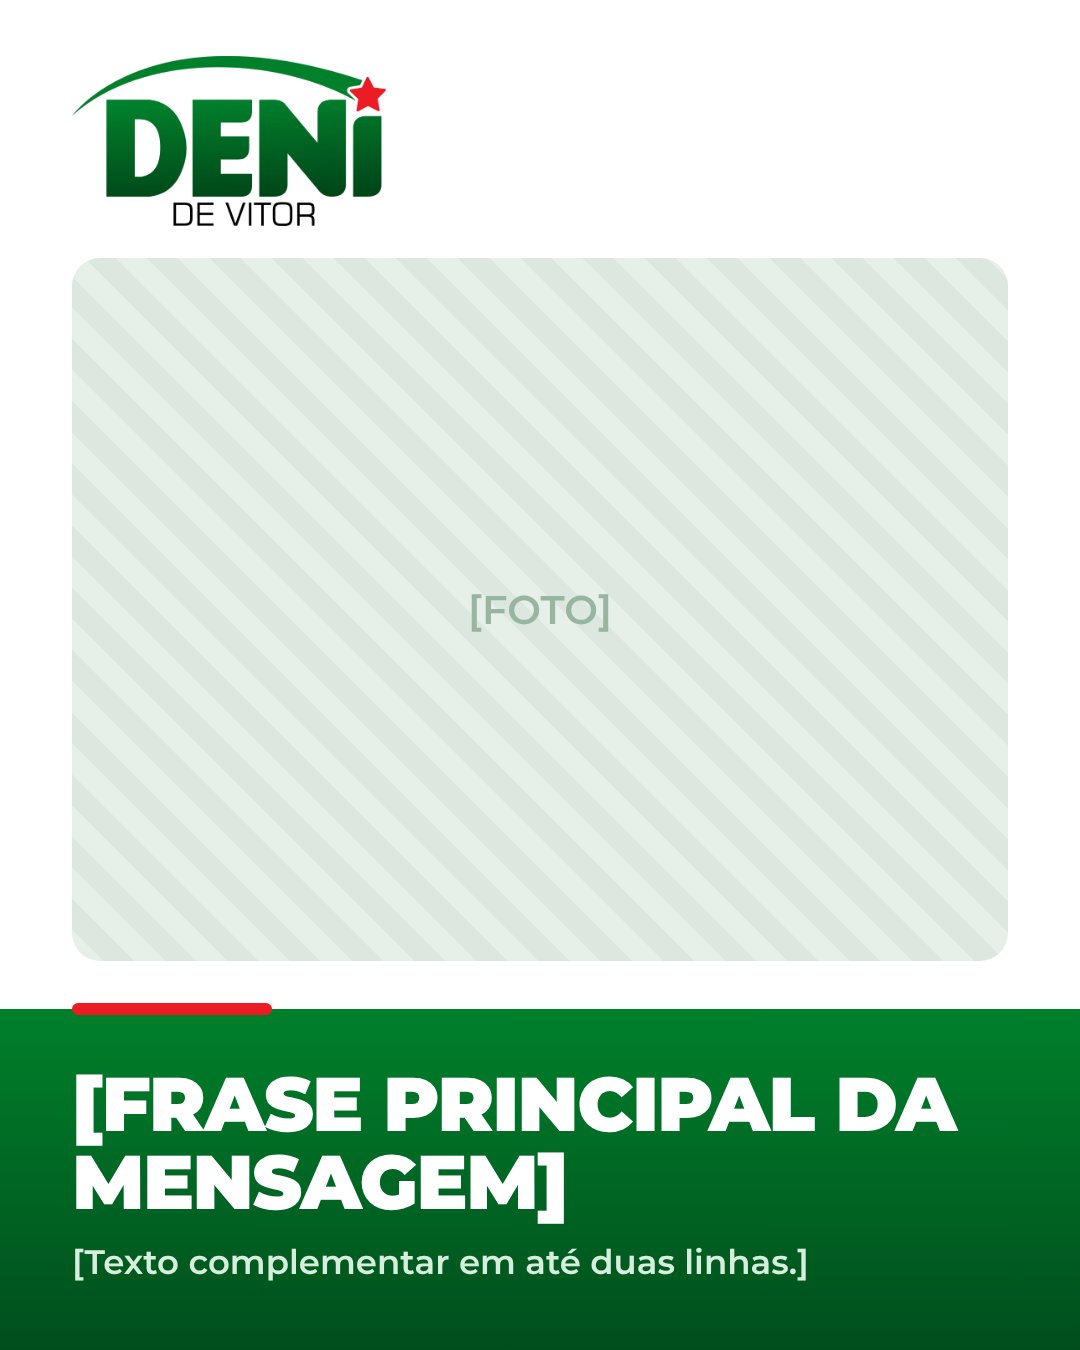
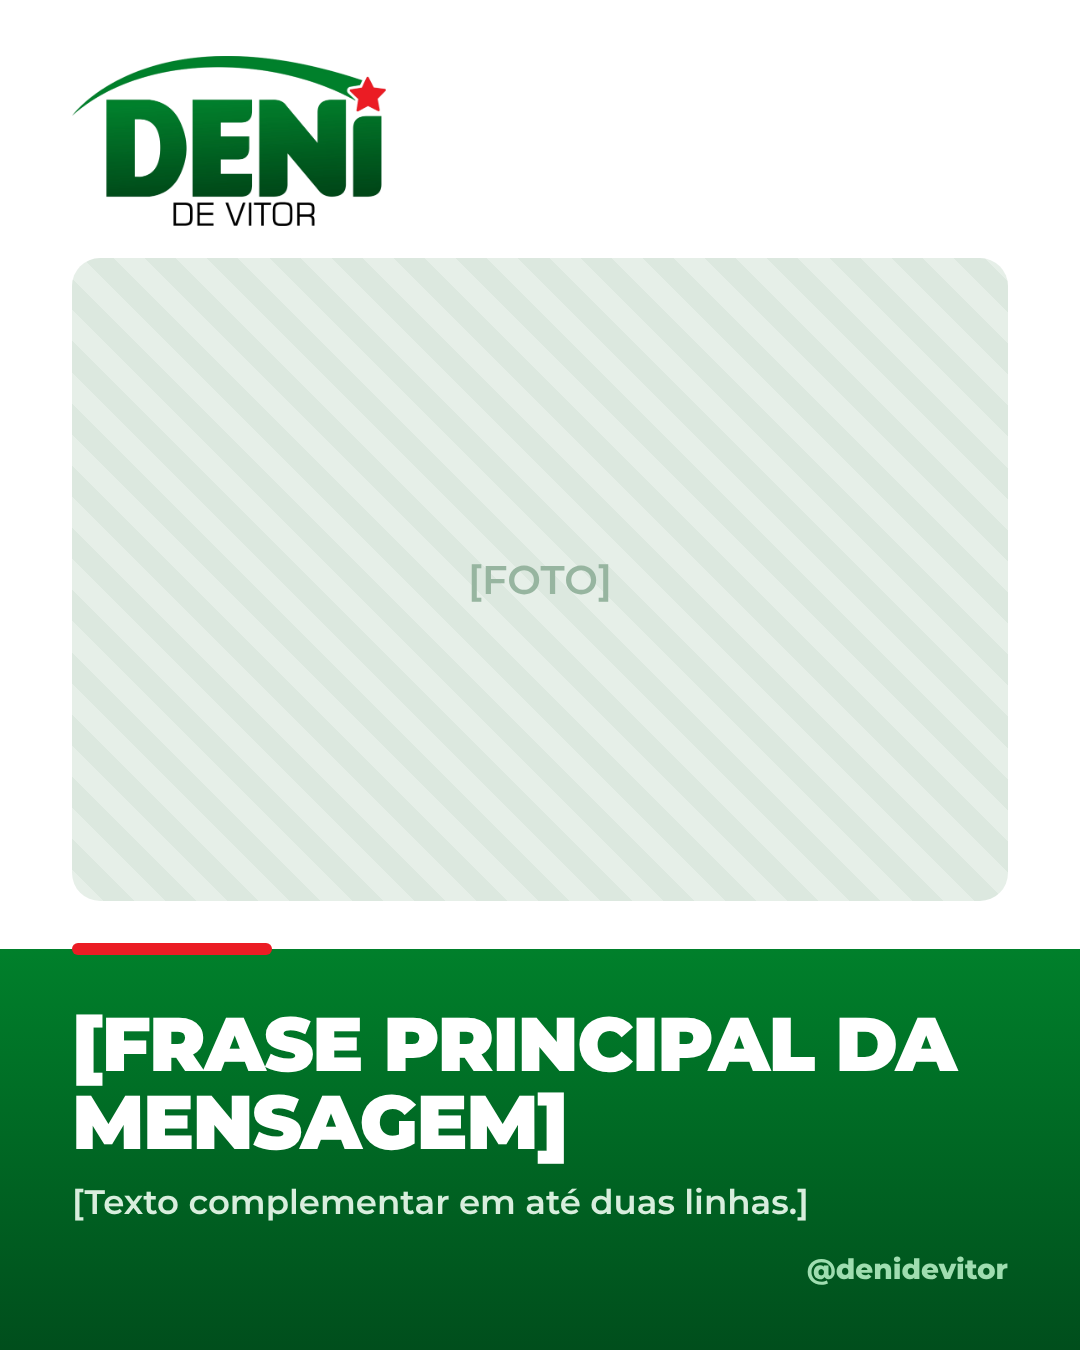
Instagram de Vitor e Deni nos briefs e modelos de card
Claude-Session: https://claude.ai/code/session_01RAcsiDedBFiSL89ewa6Bxz

Changed region(s): [[0.0, 0.6533, 1.0, 0.9644], [0.4278, 0.4044, 0.5806, 0.4667]]

diff --git a/clientes/prefeito-vitor/modelos/card-mensagem.html b/clientes/prefeito-vitor/modelos/card-mensagem.html
@@ -8,13 +8,15 @@ body{width:1080px;height:1350px;background:var(--escuro);font-family:Montserrat,
 .fade{position:absolute;inset:0;background:linear-gradient(to bottom,transparent 38%,var(--escuro) 66%)}
 .selo{position:absolute;top:48px;left:48px;background:#fff;border-radius:24px;padding:10px 22px}
 .selo img{height:150px;display:block}
-.txt{position:absolute;left:72px;right:72px;bottom:96px;display:grid;gap:26px}
+.txt{position:absolute;left:72px;right:72px;bottom:120px;display:grid;gap:26px}
 h1{font:900 96px/1 Montserrat;letter-spacing:-.02em;text-transform:uppercase}
 h1 em{font-style:normal;color:#7CF07F}
 p{font:600 36px/1.35 Montserrat;color:#DDF5E0}
+.arroba{position:absolute;right:72px;bottom:44px;font:800 30px Montserrat;color:#BFEFC4;letter-spacing:.02em}
 .barra{position:absolute;left:0;right:0;bottom:0;height:20px;background:var(--verde)}
 </style>
 <div class="foto">[FOTO]</div><div class="fade"></div>
 <div class="selo"><img src="../identidade/logo-vitor-prefeito-do-povo.png" alt=""></div>
 <div class="txt"><h1>[Frase de impacto <em>em destaque</em>]</h1><p>[Mensagem complementar em até duas linhas.]</p></div>
+<div class="arroba">@prefeitovitor</div>
 <div class="barra"></div>

diff --git a/clientes/deni-de-vitor/modelos/card-mensagem.html b/clientes/deni-de-vitor/modelos/card-mensagem.html
@@ -11,7 +11,8 @@ header img{height:170px}
 .txt::before{content:"";position:absolute;top:-6px;left:72px;width:200px;height:12px;background:var(--vermelho);border-radius:6px}
 h1{font:900 76px/1.02 Montserrat;letter-spacing:-.02em;text-transform:uppercase}
 p{font:600 34px/1.35 Montserrat;color:#D8EEDD}
+.arroba{font:800 28px Montserrat;color:#9FDDB0;justify-self:end;margin-top:6px}
 </style>
 <header><img src="../identidade/logo-deni-de-vitor-transparente.png" alt=""></header>
 <div class="foto">[FOTO]</div>
-<div class="txt"><h1>[Frase principal da mensagem]</h1><p>[Texto complementar em até duas linhas.]</p></div>
+<div class="txt"><h1>[Frase principal da mensagem]</h1><p>[Texto complementar em até duas linhas.]</p><span class="arroba">@denidevitor</span></div>

diff --git a/clientes/deni-de-vitor/brief.md b/clientes/deni-de-vitor/brief.md
@@ -2,7 +2,7 @@
 
 - Nome oficial: Deni de Vitor
 - Responsável pelo contato / aprovação:
-- Redes sociais (@):
+- Redes sociais (@): Instagram @denidevitor
 - Cores oficiais (HEX): Verde `#00802B` → verde escuro `#004E1C` (gradiente), vermelho estrela `#EB1C24`, preto no "DE VITOR"
 - Fontes usadas nos modelos: Montserrat 900/600
 - Arquivos de marca em `identidade/`: `logo-deni-de-vitor.jpg` (original), `logo-deni-de-vitor-transparente.png`, `logo-deni-de-vitor-branco.png`
